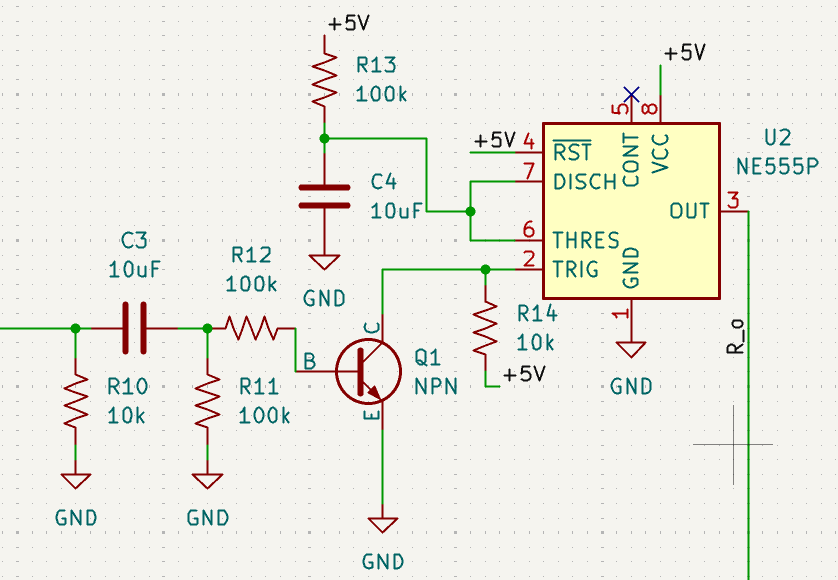
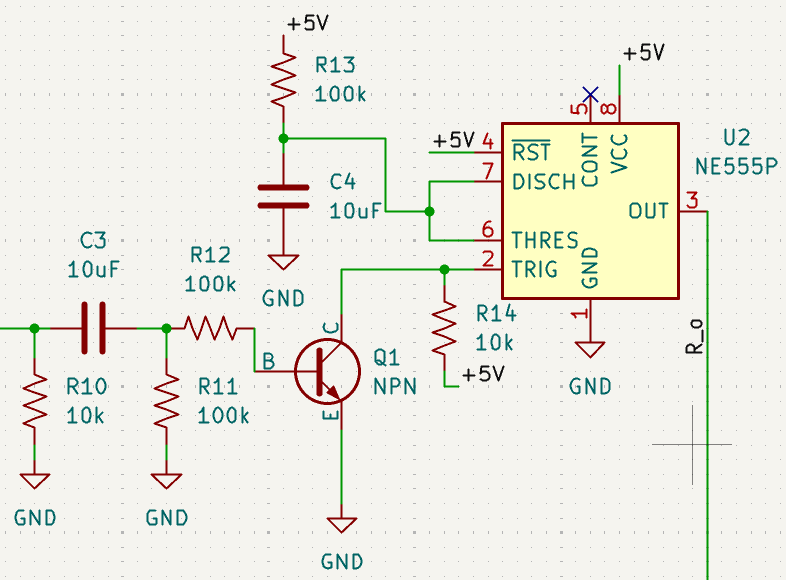
Add section about the 555 timer and minor changes to the image

diff --git a/README.md b/README.md
@@ -25,5 +25,7 @@ For this car, a modification was made for the movement. Using a joystick instead
 To implement the timed movement for turning left and right, a 555 circuit was created and added to each of the direction inputs.  
 
 
-![alt text for the image](Images/555CarCircuit.png)
-*555 Timer Circuit Diagram*
+![555 Timer Circuit Diagram](Images/555CarCircuit.png)
+*555 Timer Circuit Diagram*  
+&emsp;  
+The combination of resistors and capacitors makes the 5 volt pulse from the timer last for only 1 second before cutting off regardless of whether the joystick is still held down, resulting in the short burst of turning that the car experiences.  
